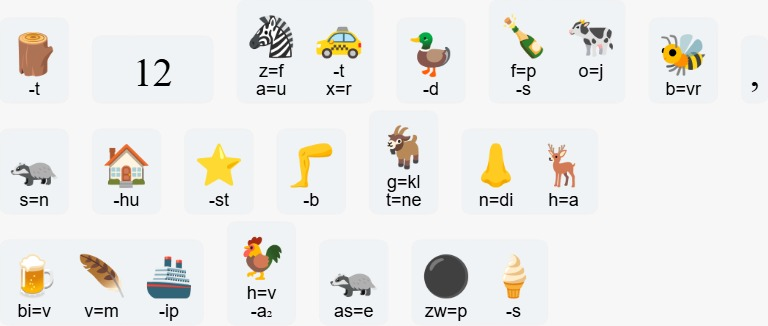
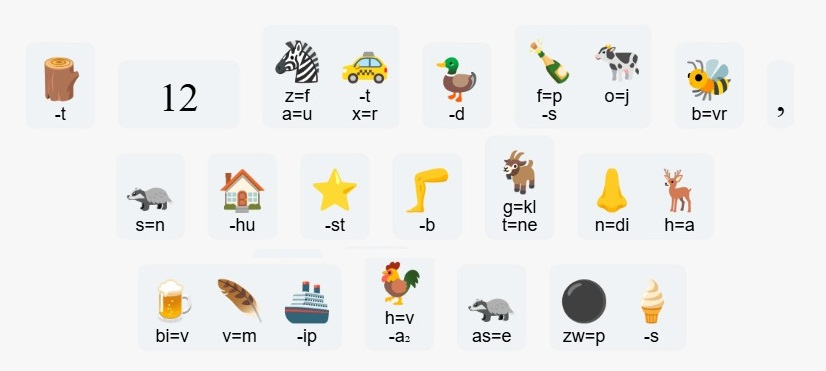
'blursss

diff --git a/src/style/snake.css b/src/style/snake.css
@@ -196,16 +196,10 @@ body{
     margin-top:2vh;
 }
 
-
-
-.rebus-container {
-  background-color: #f7f7f7;
+#rebus-container {
   margin: 4vh auto;
-  border-radius: 15px;
-  border: 2px solid black;
-  width: 40%;
-  height: 40%;
-  position: relative;
+  width: 40vw;
+  height: 34vh;
 }
 
 #rebus {
@@ -213,63 +207,22 @@ body{
   background-size: contain;
   background-repeat: no-repeat;
   background-position: center;
-  width: 90%;
-  height: 90%;
+  width: 90vw;
+  height: 35vh;
 }
 
-.blur-0 {
-  filter: blur(0px);
-  -webkit-filter: blur(0px);
+.blur {
+  height: 8.65vh;
+  width: 10vw;
+  float: left;
+  backdrop-filter: blur(5px);
+  outline: 1px solid #000;
 }
 
-.blur-1 {
-  filter: blur(1px);
-  -webkit-filter: blur(1px);
-}
-
-.blur-2 {
-  filter: blur(2px);
-  -webkit-filter: blur(2px);
-}
-
-.blur-3 {
-  filter: blur(3px);
-  -webkit-filter: blur(3px);
-}
-
-.blur-4 {
-  filter: blur(4px);
-  -webkit-filter: blur(4px);
-}
-
-.blur-5 {
-  filter: blur(5px);
-  -webkit-filter: blur(5px);
-}
-
-.blur-6 {
-  filter: blur(6px);
-  -webkit-filter: blur(6px);
-}
-
-.blur-7 {
-  filter: blur(7px);
-  -webkit-filter: blur(7px);
-}
-
-.blur-8 {
-  filter: blur(8px);
-  -webkit-filter: blur(8px);
-}
-
-.blur-9 {
-  filter: blur(9px);
-  -webkit-filter: blur(9px);
-}
-
-.blur-10 {
-  filter: blur(10px);
-  -webkit-filter: blur(10px);
+.unblur {
+  height: 8.65vh;
+  width: 10vw;
+  float: left;
 }
 
 .main-container {

diff --git a/src/script/util/game.base.ts b/src/script/util/game.base.ts
@@ -15,7 +15,8 @@ export abstract class Game {
     private _configuration: GameConfiguration;
     private _hasDrawnLastDirection:boolean = true;
     private _started: boolean = false;
-    private _currentBlur:number = 10;
+    private _currentBlur:number;
+    private _totalBlur:number;
 
     constructor(configuration:GameConfiguration)
     {
@@ -28,6 +29,8 @@ export abstract class Game {
     {
         this._dom = new Dom(await new FileReader().ReadCompetences());
         this._screen  = this._dom.GetElementById<HTMLCanvasElement>(this._configuration.ScreenId);
+        this._currentBlur = document.getElementsByClassName("blur").length;
+        this._totalBlur = this._currentBlur;
         this._illustrator = new Illustrator(this._screen.getContext("2d"));
         this._illustrator.Draw(this._screen);
         this._illustrator.Draw(this._snake);
@@ -67,7 +70,7 @@ export abstract class Game {
             {
                 this._snake.AddPartToTail();
                 this._apple.Move(this._snake);
-                this._dom.UnblurRebusPiece(--this._currentBlur);
+                this._dom.UnblurRebusPiece((this._totalBlur-this._currentBlur--) + 1);
             }
             this._illustrator.Draw(this._apple);
             this._hasDrawnLastDirection = true;

diff --git a/index.html b/index.html
@@ -48,8 +48,25 @@
                 </div>
             </div>
         </div>
-    <div class="box rebus-container">
-      <div id="rebus" class="blur-10"></div>
+    <div id="rebus-container" class="box">
+      <div id="rebus">
+      <div id="blur-1" class="blur"></div>
+      <div id="blur-2" class="blur"></div>
+      <div id="blur-3" class="blur"></div>
+      <div id="blur-4" class="blur"></div>
+      <div id="blur-5" class="blur"></div>
+      <div id="blur-6" class="blur"></div>
+      <div id="blur-7" class="blur"></div>
+      <div id="blur-8" class="blur"></div>
+      <div id="blur-9" class="blur"></div>
+      <div id="blur-10" class="blur"></div>
+      <div id="blur-11" class="blur"></div>
+      <div id="blur-12" class="blur"></div>
+      <div id="blur-13" class="blur"></div>
+      <div id="blur-14" class="blur"></div>
+      <div id="blur-15" class="blur"></div>
+      <div id="blur-16" class="blur"></div>
+      </div>
     </div>
   </div>
   <div class="footer-row">

diff --git a/src/script/util/dom.ts b/src/script/util/dom.ts
@@ -42,11 +42,11 @@ export class Dom {
 
 
     
-    public UnblurRebusPiece(blurLevel:number): boolean
+    public UnblurRebusPiece(blurIdToRemove:number): boolean
     {
-        if(blurLevel < 0) return;
-        var rebus = document.getElementById('rebus');
-        rebus.className = "blur-" + blurLevel;
+        if(blurIdToRemove < 0) return;
+
+        document.getElementById("rebus").removeChild(document.getElementById("blur-"+blurIdToRemove));
         return;
     }
 }
